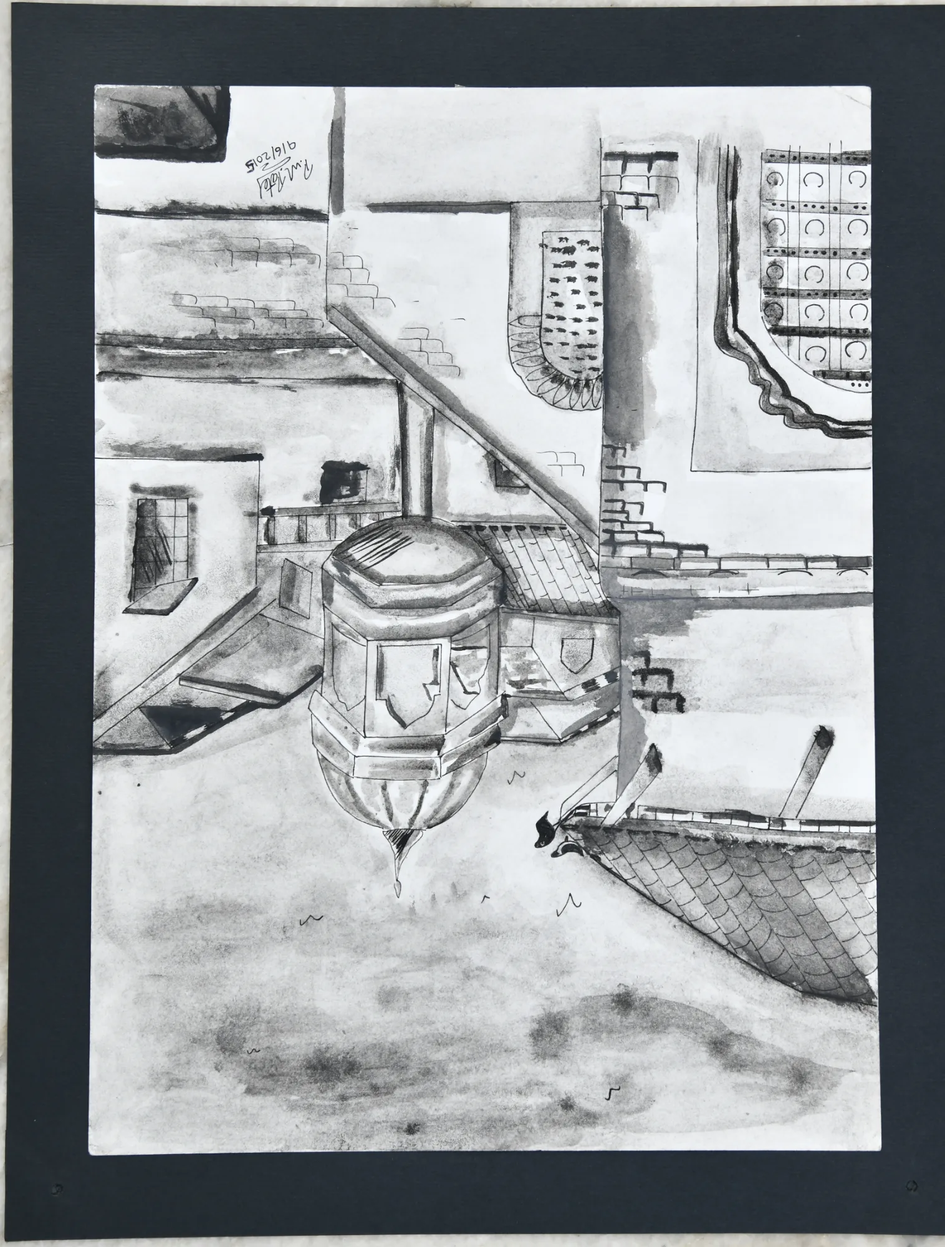
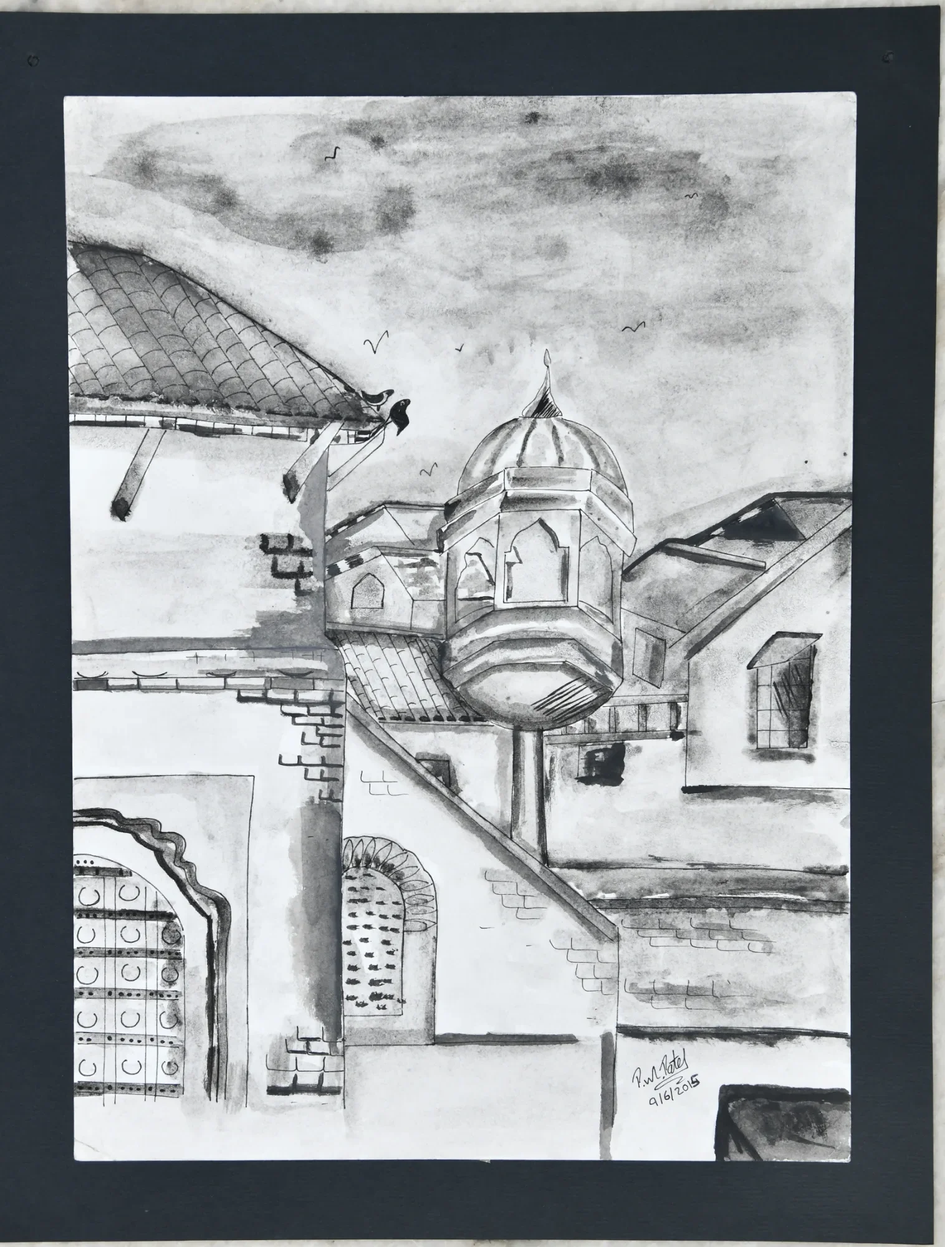
Reorder sections, add About photo, bigger name, clearer hero, straighten paintings
- Page and nav order: About, Services, Work, Shop, Contact
- Larger two-line name mark in the nav; clearer hero headline and shorter intro line
- Shorter hero hold so View Portfolio stays visible and work arrives sooner
- Photo of Prakruti in the About section
- Rotate two upside-down Heritage Streets images and a sideways blue study

diff --git a/index.html b/index.html
@@ -77,12 +77,15 @@
 
   <!-- NAV -->
   <header class="nav" data-nav>
-    <a href="#top" class="nav__brand" data-cursor="Home">Prakruti Patel</a>
+    <a href="#top" class="nav__brand" data-cursor="Home" aria-label="Prakruti Patel, home">
+      <span class="nav__name">Prakruti <em>Patel</em></span>
+      <span class="nav__role">Visual Artist · Vancouver</span>
+      <svg class="nav__stroke" viewBox="0 0 200 12" preserveAspectRatio="none" aria-hidden="true"><path d="M3 8 C40 3 90 10 130 6 C160 3 185 7 197 5"/></svg>
+    </a>
     <nav class="nav__links" aria-label="Primary">
-      <a href="#selected" class="u-link">Work</a>
-      <a href="#murals" class="u-link">Murals</a>
       <a href="#about" class="u-link">About</a>
       <a href="#services" class="u-link">Services</a>
+      <a href="#selected" class="u-link">Work</a>
       <a href="#shop" class="u-link nav__shop">Shop<sup>soon</sup></a>
       <a href="#enquire" class="u-link">Contact</a>
     </nav>
@@ -92,10 +95,9 @@
 
   <div class="menu" id="menu" aria-hidden="true">
     <nav class="menu__links" aria-label="Mobile">
-      <a href="#selected">Work</a>
-      <a href="#murals">Murals</a>
       <a href="#about">About</a>
       <a href="#services">Services</a>
+      <a href="#selected">Work</a>
       <a href="#shop">Shop<sup>soon</sup></a>
       <a href="#enquire">Contact</a>
     </nav>
@@ -116,17 +118,16 @@
         <div class="hero__vignette" aria-hidden="true"></div>
 
         <div class="hero__content wrap">
-          <p class="label hero__eyebrow">Prakruti Patel · Visual Artist · Muralist · Art Educator</p>
+          <p class="label hero__eyebrow">Visual Artist · Muralist · Art Educator</p>
           <h1 class="hero__title" id="hero-title">
-            <span class="line">Creating across</span>
-            <span class="line">canvas, walls and</span>
-            <span class="line"><em>evolving creative</em></span>
-            <span class="line"><em>spaces.</em>
+            <span class="line">Paintings, murals</span>
+            <span class="line">and custom art,</span>
+            <span class="line"><em>made by hand.</em>
               <svg class="scribble" viewBox="0 0 400 30" preserveAspectRatio="none" aria-hidden="true"><path class="draw" d="M4 20 C80 8 160 26 240 14 C300 6 350 18 396 10"/></svg>
             </span>
           </h1>
           <div class="hero__bottom">
-            <p class="hero__sub">A multidisciplinary visual artist working across drawing, painting, murals and commissioned artwork, with a practice rooted in traditional art foundations, experimentation and continuous creative growth.</p>
+            <p class="hero__sub">Vancouver-based artist working in drawing, painting and murals, for homes, businesses and private commissions.</p>
             <div class="hero__ctas">
               <a href="#selected" class="btn btn--primary magnetic"><span>View Portfolio</span></a>
               <a href="#about" class="u-link hero__link">About Me →</a>
@@ -141,12 +142,124 @@
       </div>
     </section>
 
-    <!-- 2. SELECTED WORK — strongest pieces, first thing after the hero -->
+    <!-- 2. ABOUT -->
+    <section class="story" id="about" aria-labelledby="story-title">
+      <div class="wrap story__grid">
+        <div class="story__intro">
+          <p class="label">01 — About</p>
+          <h2 class="h2 reveal-lines" id="story-title">Trained in fine art. Driven by curiosity. <em>Happiest with paint on my hands.</em></h2>
+          <figure class="story__photo">
+            <img src="assets/img/prakruti-sm.webp" srcset="assets/img/prakruti-sm.webp 640w, assets/img/prakruti.webp 1100w" sizes="(max-width: 1100px) 90vw, 32vw" width="640" height="922" loading="lazy" alt="Prakruti Patel holding her acrylic painting of a pink blossom tree">
+            <figcaption class="label">Prakruti with one of her acrylic paintings</figcaption>
+          </figure>
+        </div>
+        <div class="story__text">
+          <div class="story__copy">
+            <p>I'm Prakruti, a multidisciplinary visual artist working across drawing, painting, murals and commissioned artwork.</p>
+            <p>My foundation is a Bachelor's degree in Visual Arts, grounded in drawing, painting, composition and art history. Postgraduate studies at Seneca College, including a full course in life drawing, sharpened my eye for the figure, light and form.</p>
+            <p>For more than eight years I&rsquo;ve painted murals for caf&eacute;s, restaurants, offices, homes and IIM Ahmedabad, and hand-painted furniture, planters and bottles for private clients. Every new surface teaches me something, and I adapt quickly to new mediums and scales.</p>
+            <p>Alongside my own practice, I share what I've learned through teaching and mentoring. I'm open to murals, commissions, collaborations and art instructor roles.</p>
+          </div>
+          <ol class="timeline">
+            <li><strong>Bachelor of Visual Arts</strong><span>Drawing, painting, composition, art history</span></li>
+            <li><strong>Postgraduate studies — Seneca College</strong><span>Life drawing, anatomy, light &amp; form</span></li>
+            <li><strong>Murals &amp; commissions — 8+ years</strong><span>Cafés, restaurants, offices, homes &amp; IIM Ahmedabad</span></li>
+            <li><strong>Now — Vancouver, Canada</strong><span>Studio practice, murals, commissions &amp; teaching</span></li>
+          </ol>
+        </div>
+      </div>
+    </section>
+
+    <!-- MISSION -->
+    <section class="mission" aria-label="Artist statement">
+      <div class="wrap">
+        <p class="label">Artist statement</p>
+        <p class="mission__text" data-words>
+          I believe art should be <em>felt</em>, <em>lived with</em> and <em>shared</em>. My practice moves from a quick sketch to a <em>finished wall</em>, always rooted in drawing, colour and close observation, and always <em>learning</em> something new.
+        </p>
+        <svg class="mission__sig" viewBox="0 0 320 90" aria-label="Signed, Prakruti" role="img">
+          <path class="draw" d="M10 70 C30 20 40 10 44 40 C46 60 30 70 26 58 C24 40 60 30 70 44 C76 54 70 64 80 60 C92 54 96 40 104 46 C110 52 100 66 112 62 C124 58 128 44 136 50 C142 56 138 66 150 62 C170 54 170 20 180 30 C186 40 170 64 186 62 C200 60 204 44 214 50 C222 56 216 66 228 62 C248 54 258 40 272 48 C284 56 290 60 310 52"/>
+        </svg>
+      </div>
+    </section>
+
+    <!-- 3. ART & EDUCATION — concise, supports the portfolio -->
+    <section class="education" id="education" aria-labelledby="education-title">
+      <div class="wrap education__grid">
+        <div class="education__intro">
+          <p class="label">02 — Art &amp; Education</p>
+          <h2 class="h2 reveal-lines" id="education-title">Sharing the <em>practice.</em></h2>
+          <p>My teaching grows out of my own studio work: strong fundamentals in observation, drawing and colour, shared with patience and encouragement.</p>
+        </div>
+        <ul class="education__list">
+          <li>
+            <span class="label">Volunteer</span>
+            <h3>Assistant Art Instructor</h3>
+            <p>Children's drawing &amp; painting classes · Ages 5–12</p>
+          </li>
+          <li>
+            <span class="label">Seneca College</span>
+            <h3>Student Peer Mentor</h3>
+            <p>Supported a group of approximately 10 students</p>
+          </li>
+        </ul>
+      </div>
+    </section>
+
+    <!-- 4. SERVICES / COMMISSIONS -->
+    <section class="services" id="services" aria-labelledby="services-title">
+      <div class="wrap">
+        <div class="section-head">
+          <p class="label">03 — Work With Me</p>
+          <h2 class="h1 reveal-lines" id="services-title">Let's make something <em>together.</em></h2>
+        </div>
+        <ul class="offers">
+          <li class="offer" data-enquiry="Mural">
+            <button class="offer__row" aria-expanded="false">
+              <span class="label offer__num">01</span>
+              <span class="offer__title">Murals</span>
+              <span class="offer__for">Homes, cafés, offices, schools</span>
+              <span class="offer__arrow" aria-hidden="true">→</span>
+            </button>
+            <div class="offer__detail"><p>Large-scale walls designed around your space and story. On-site across Metro Vancouver.</p><a href="#enquire" class="u-link" data-enquire>Enquire →</a></div>
+          </li>
+          <li class="offer" data-enquiry="Commission">
+            <button class="offer__row" aria-expanded="false">
+              <span class="label offer__num">02</span>
+              <span class="offer__title">Commissions</span>
+              <span class="offer__for">Individuals &amp; collectors</span>
+              <span class="offer__arrow" aria-hidden="true">→</span>
+            </button>
+            <div class="offer__detail"><p>Original paintings, drawings and portraits made for you.</p><a href="#enquire" class="u-link" data-enquire>Enquire →</a></div>
+          </li>
+          <li class="offer" data-enquiry="Custom piece">
+            <button class="offer__row" aria-expanded="false">
+              <span class="label offer__num">03</span>
+              <span class="offer__title">Custom Painted Pieces</span>
+              <span class="offer__for">Furniture, planters, décor</span>
+              <span class="offer__arrow" aria-hidden="true">→</span>
+            </button>
+            <div class="offer__detail"><p>Hand-painted patterns and artwork on furniture, planters, bottles and other surfaces.</p><a href="#enquire" class="u-link" data-enquire>Enquire →</a></div>
+          </li>
+          <li class="offer" data-enquiry="Teaching">
+            <button class="offer__row" aria-expanded="false">
+              <span class="label offer__num">04</span>
+              <span class="offer__title">Teaching &amp; Workshops</span>
+              <span class="offer__for">Schools, studios, programs</span>
+              <span class="offer__arrow" aria-hidden="true">→</span>
+            </button>
+            <div class="offer__detail"><p>Art instruction and creative workshops in drawing and painting.</p><a href="#enquire" class="u-link" data-enquire>Enquire →</a></div>
+          </li>
+        </ul>
+      </div>
+    </section>
+
+    <!-- 5. SELECTED WORK — strongest pieces -->
     <section class="selected" id="selected" aria-labelledby="selected-title">
       <div class="wrap">
         <div class="selected__head">
           <div>
-            <p class="label">01 — Selected Work</p>
+            <p class="label">04 — Selected Work</p>
             <h2 class="h1 reveal-lines" id="selected-title">Selected <em>work.</em></h2>
           </div>
           <p class="selected__intro">A curated edit across walls, canvas and paper: murals, oil, acrylic, watercolour, ink and life drawing.</p>
@@ -205,12 +318,12 @@
       </div>
     </section>
 
-    <!-- 3. PORTFOLIO — full gallery with categories -->
+    <!-- 6. PORTFOLIO — full gallery with categories -->
     <section class="work" id="work" aria-labelledby="work-title">
       <div class="work__pin">
         <div class="wrap work__head">
           <div>
-            <p class="label">02 — Portfolio</p>
+            <p class="label">05 — Portfolio</p>
             <h2 class="h1" id="work-title">The <em>portfolio</em><sup class="work__count" data-work-count>(28)</sup></h2>
           </div>
           <div class="filters" role="group" aria-label="Filter work" data-filters>
@@ -226,12 +339,12 @@
       </div>
     </section>
 
-    <!-- 4. MURALS & CLIENT PROJECTS -->
+    <!-- 7. MURALS & CLIENT PROJECTS -->
     <section class="murals" id="murals" aria-labelledby="murals-title">
       <div class="wrap">
         <div class="murals__head">
           <div>
-            <p class="label">03 — Murals &amp; Client Projects</p>
+            <p class="label">06 — Murals &amp; Client Projects</p>
             <h2 class="h1 reveal-lines" id="murals-title">Walls, spaces <em>&amp; commissions.</em></h2>
           </div>
           <p class="murals__intro">More than eight years of large-scale murals and commissioned pieces for cafés, restaurants, offices, homes and IIM Ahmedabad, each one planned, drawn out and painted by hand.</p>
@@ -272,115 +385,6 @@
         </div>
       </div>
     </section>
-
-    <!-- MISSION -->
-    <section class="mission" aria-label="Artist statement">
-      <div class="wrap">
-        <p class="label">Artist statement</p>
-        <p class="mission__text" data-words>
-          I believe art should be <em>felt</em>, <em>lived with</em> and <em>shared</em>. My practice moves from a quick sketch to a <em>finished wall</em>, always rooted in drawing, colour and close observation, and always <em>learning</em> something new.
-        </p>
-        <svg class="mission__sig" viewBox="0 0 320 90" aria-label="Signed, Prakruti" role="img">
-          <path class="draw" d="M10 70 C30 20 40 10 44 40 C46 60 30 70 26 58 C24 40 60 30 70 44 C76 54 70 64 80 60 C92 54 96 40 104 46 C110 52 100 66 112 62 C124 58 128 44 136 50 C142 56 138 66 150 62 C170 54 170 20 180 30 C186 40 170 64 186 62 C200 60 204 44 214 50 C222 56 216 66 228 62 C248 54 258 40 272 48 C284 56 290 60 310 52"/>
-        </svg>
-      </div>
-    </section>
-
-    <!-- 5. ABOUT -->
-    <section class="story" id="about" aria-labelledby="story-title">
-      <div class="wrap story__grid">
-        <div class="story__intro">
-          <p class="label">04 — About</p>
-          <h2 class="h2 reveal-lines" id="story-title">Trained in fine art. Driven by curiosity. <em>Happiest with paint on my hands.</em></h2>
-        </div>
-        <div class="story__text">
-          <div class="story__copy">
-            <p>I'm Prakruti, a multidisciplinary visual artist working across drawing, painting, murals and commissioned artwork.</p>
-            <p>My foundation is a Bachelor's degree in Visual Arts, grounded in drawing, painting, composition and art history. Postgraduate studies at Seneca College, including a full course in life drawing, sharpened my eye for the figure, light and form.</p>
-            <p>For more than eight years I&rsquo;ve painted murals for caf&eacute;s, restaurants, offices, homes and IIM Ahmedabad, and hand-painted furniture, planters and bottles for private clients. Every new surface teaches me something, and I adapt quickly to new mediums and scales.</p>
-            <p>Alongside my own practice, I share what I've learned through teaching and mentoring. I'm open to murals, commissions, collaborations and art instructor roles.</p>
-          </div>
-          <ol class="timeline">
-            <li><strong>Bachelor of Visual Arts</strong><span>Drawing, painting, composition, art history</span></li>
-            <li><strong>Postgraduate studies — Seneca College</strong><span>Life drawing, anatomy, light &amp; form</span></li>
-            <li><strong>Murals &amp; commissions — 8+ years</strong><span>Cafés, restaurants, offices, homes &amp; IIM Ahmedabad</span></li>
-            <li><strong>Now — Vancouver, Canada</strong><span>Studio practice, murals, commissions &amp; teaching</span></li>
-          </ol>
-        </div>
-      </div>
-    </section>
-
-    <!-- 6. ART & EDUCATION — concise, supports the portfolio -->
-    <section class="education" id="education" aria-labelledby="education-title">
-      <div class="wrap education__grid">
-        <div class="education__intro">
-          <p class="label">05 — Art &amp; Education</p>
-          <h2 class="h2 reveal-lines" id="education-title">Sharing the <em>practice.</em></h2>
-          <p>My teaching grows out of my own studio work: strong fundamentals in observation, drawing and colour, shared with patience and encouragement.</p>
-        </div>
-        <ul class="education__list">
-          <li>
-            <span class="label">Volunteer</span>
-            <h3>Assistant Art Instructor</h3>
-            <p>Children's drawing &amp; painting classes · Ages 5–12</p>
-          </li>
-          <li>
-            <span class="label">Seneca College</span>
-            <h3>Student Peer Mentor</h3>
-            <p>Supported a group of approximately 10 students</p>
-          </li>
-        </ul>
-      </div>
-    </section>
-
-    <!-- 7. SERVICES / COMMISSIONS -->
-    <section class="services" id="services" aria-labelledby="services-title">
-      <div class="wrap">
-        <div class="section-head">
-          <p class="label">06 — Work With Me</p>
-          <h2 class="h1 reveal-lines" id="services-title">Let's make something <em>together.</em></h2>
-        </div>
-        <ul class="offers">
-          <li class="offer" data-enquiry="Mural">
-            <button class="offer__row" aria-expanded="false">
-              <span class="label offer__num">01</span>
-              <span class="offer__title">Murals</span>
-              <span class="offer__for">Homes, cafés, offices, schools</span>
-              <span class="offer__arrow" aria-hidden="true">→</span>
-            </button>
-            <div class="offer__detail"><p>Large-scale walls designed around your space and story. On-site across Metro Vancouver.</p><a href="#enquire" class="u-link" data-enquire>Enquire →</a></div>
-          </li>
-          <li class="offer" data-enquiry="Commission">
-            <button class="offer__row" aria-expanded="false">
-              <span class="label offer__num">02</span>
-              <span class="offer__title">Commissions</span>
-              <span class="offer__for">Individuals &amp; collectors</span>
-              <span class="offer__arrow" aria-hidden="true">→</span>
-            </button>
-            <div class="offer__detail"><p>Original paintings, drawings and portraits made for you.</p><a href="#enquire" class="u-link" data-enquire>Enquire →</a></div>
-          </li>
-          <li class="offer" data-enquiry="Custom piece">
-            <button class="offer__row" aria-expanded="false">
-              <span class="label offer__num">03</span>
-              <span class="offer__title">Custom Painted Pieces</span>
-              <span class="offer__for">Furniture, planters, décor</span>
-              <span class="offer__arrow" aria-hidden="true">→</span>
-            </button>
-            <div class="offer__detail"><p>Hand-painted patterns and artwork on furniture, planters, bottles and other surfaces.</p><a href="#enquire" class="u-link" data-enquire>Enquire →</a></div>
-          </li>
-          <li class="offer" data-enquiry="Teaching">
-            <button class="offer__row" aria-expanded="false">
-              <span class="label offer__num">04</span>
-              <span class="offer__title">Teaching &amp; Workshops</span>
-              <span class="offer__for">Schools, studios, programs</span>
-              <span class="offer__arrow" aria-hidden="true">→</span>
-            </button>
-            <div class="offer__detail"><p>Art instruction and creative workshops in drawing and painting.</p><a href="#enquire" class="u-link" data-enquire>Enquire →</a></div>
-          </li>
-        </ul>
-      </div>
-    </section>
-
 
     <!-- 8. CANVAS SHOP — coming soon -->
     <section class="shop" id="shop" aria-labelledby="shop-title">

diff --git a/script.js b/script.js
@@ -25,7 +25,7 @@
     {title:"Women of Rajasthan",category:"Painting",medium:"Painting · BA Visual Arts",year:"",desc:"A richly patterned figurative painting of two women in traditional Rajasthani dress.",images:[{src:"assets/work/rajasthan-1.webp",sm:"assets/work/rajasthan-1-sm.webp",w:2000,h:1625}]},
     {title:"Heritage Streets",category:"Painting",medium:"Watercolour & ink",year:"",desc:"Watercolour and ink studies of temples, old streets and harbours: architecture, texture and everyday life.",images:[{src:"assets/work/heritage-1.webp",sm:"assets/work/heritage-1-sm.webp",w:612,h:844},{src:"assets/work/heritage-2.webp",sm:"assets/work/heritage-2-sm.webp",w:2000,h:1350},{src:"assets/work/heritage-3.webp",sm:"assets/work/heritage-3-sm.webp",w:1524,h:2000},{src:"assets/work/heritage-4.webp",sm:"assets/work/heritage-4-sm.webp",w:687,h:1023},{src:"assets/work/heritage-5.webp",sm:"assets/work/heritage-5-sm.webp",w:1516,h:2000},{src:"assets/work/heritage-6.webp",sm:"assets/work/heritage-6-sm.webp",w:2000,h:1417}]},
     {title:"Still Life with Drapery",category:"Painting",medium:"Painting · BA Visual Arts",year:"",desc:"Still life studies focused on drapery, reflective surfaces and bold colour.",images:[{src:"assets/work/still-life-1.webp",sm:"assets/work/still-life-1-sm.webp",w:1357,h:2000},{src:"assets/work/still-life-2.webp",sm:"assets/work/still-life-2-sm.webp",w:1459,h:2000}]},
-    {title:"Studies in Blue",category:"Painting",medium:"Painting · BA Visual Arts",year:"",desc:"Monochrome studies in blue, exploring value and form.",images:[{src:"assets/work/blue-studies-1.webp",sm:"assets/work/blue-studies-1-sm.webp",w:1467,h:1570},{src:"assets/work/blue-studies-2.webp",sm:"assets/work/blue-studies-2-sm.webp",w:1289,h:2000},{src:"assets/work/blue-studies-3.webp",sm:"assets/work/blue-studies-3-sm.webp",w:2000,h:1333}]},
+    {title:"Studies in Blue",category:"Painting",medium:"Painting · BA Visual Arts",year:"",desc:"Monochrome studies in blue, exploring value and form.",images:[{src:"assets/work/blue-studies-1.webp",sm:"assets/work/blue-studies-1-sm.webp",w:1467,h:1570},{src:"assets/work/blue-studies-2.webp",sm:"assets/work/blue-studies-2-sm.webp",w:1289,h:2000},{src:"assets/work/blue-studies-3.webp",sm:"assets/work/blue-studies-3-sm.webp",w:1333,h:2000}]},
     {title:"Small Canvases",category:"Painting",medium:"Mixed media · BA Visual Arts",year:"",desc:"A set of small mixed-media canvases: texture, collage and bold symbolic imagery.",images:[{src:"assets/work/mixed-media-1.webp",sm:"assets/work/mixed-media-1-sm.webp",w:430,h:543},{src:"assets/work/mixed-media-2.webp",sm:"assets/work/mixed-media-2-sm.webp",w:730,h:717},{src:"assets/work/mixed-media-3.webp",sm:"assets/work/mixed-media-3-sm.webp",w:874,h:589},{src:"assets/work/mixed-media-4.webp",sm:"assets/work/mixed-media-4-sm.webp",w:470,h:589},{src:"assets/work/mixed-media-5.webp",sm:"assets/work/mixed-media-5-sm.webp",w:480,h:563},{src:"assets/work/mixed-media-6.webp",sm:"assets/work/mixed-media-6-sm.webp",w:538,h:435},{src:"assets/work/mixed-media-7.webp",sm:"assets/work/mixed-media-7-sm.webp",w:470,h:538}]},
     {title:"Sky Canvases",category:"Painting",medium:"Painting on canvas",year:"",desc:"Soft sunset and night-sky canvases.",images:[{src:"assets/work/sky-canvases-1.webp",sm:"assets/work/sky-canvases-1-sm.webp",w:490,h:640},{src:"assets/work/sky-canvases-2.webp",sm:"assets/work/sky-canvases-2-sm.webp",w:413,h:525}]},
     {title:"Pointillism & Colour Fields",category:"Painting",medium:"Painting · BA Visual Arts",year:"",desc:"Studies in dotted texture and overlapping transparent colour.",images:[{src:"assets/work/pointillism-1.webp",sm:"assets/work/pointillism-1-sm.webp",w:1526,h:2000},{src:"assets/work/pointillism-2.webp",sm:"assets/work/pointillism-2-sm.webp",w:2000,h:1368},{src:"assets/work/pointillism-3.webp",sm:"assets/work/pointillism-3-sm.webp",w:1254,h:2000}]},
@@ -397,11 +397,12 @@
     };
 
     const tl = gsap.timeline({ defaults: { ease: 'none' } })
-      .to('.hero__content', { yPercent: -10, opacity: 0, ease: 'power1.in', duration: 0.5 }, 0)
+      .to('.hero__content', { yPercent: -10, opacity: 0, ease: 'power1.in', duration: 0.4 }, 0.35)
       .fromTo('.hero__meta', { opacity: 1 }, { opacity: 0, duration: 0.2, immediateRender: false }, 0)
       .to('.hero__vignette', { boxShadow: 'inset 0 0 18vmax 4vmax #F6F1E9', duration: 0.4 }, 0.6);
     ScrollTrigger.create({
-      trigger: hero, start: 'top top', end: () => '+=' + innerHeight * (isMobile() ? 1.4 : 2.2),
+      trigger: hero, start: 'top top', // short hold: the title and View Portfolio stay readable, then the work follows quickly
+      end: () => '+=' + innerHeight * (isMobile() ? 0.7 : 1),
       pin: true, scrub: 1, animation: tl,
       onUpdate: self => { state.scroll = self.progress; apply(); }
     });

diff --git a/style.css b/style.css
@@ -182,7 +182,17 @@ em { font-style: italic; }
 .nav.is-scrolled::before { opacity: 1; }
 .on-dark .nav { color: var(--paper); }
 .on-dark .nav::before { background: linear-gradient(to bottom, rgba(20, 30, 36, .85), rgba(20, 30, 36, 0)); }
-.nav__brand { font: 400 26px/1 var(--serif); letter-spacing: -.01em; margin-right: auto; }
+.nav__brand { position: relative; display: flex; flex-direction: column; gap: 5px; margin-right: auto; padding-bottom: 6px; }
+.nav__name { font: 400 clamp(30px, 2.5vw, 38px)/.95 var(--serif); letter-spacing: -.02em; white-space: nowrap; }
+.nav__name em { color: var(--terracotta); }
+.on-dark .nav__name em { color: var(--ochre); }
+.nav__role { font: 500 10px/1 var(--mono); letter-spacing: .2em; text-transform: uppercase; opacity: .7; white-space: nowrap; }
+.nav__stroke {
+  position: absolute; left: -2px; right: 30%; bottom: 17px; width: auto; height: 10px; z-index: -1;
+  fill: none; stroke: var(--terracotta); stroke-width: 5; stroke-linecap: round; opacity: .22;
+  transform-origin: left; transform: scaleX(0); transition: transform .9s var(--ease);
+}
+.nav__brand:hover .nav__stroke, .nav__brand:focus-visible .nav__stroke { transform: scaleX(1); }
 .nav__links { display: flex; gap: 28px; font-size: 14px; font-weight: 500; }
 .nav__menu { display: none; font: 500 12px/1 var(--mono); letter-spacing: .12em; text-transform: uppercase; padding: 12px 0; }
 
@@ -243,7 +253,7 @@ em { font-style: italic; }
 .scribble { position: absolute; left: 0; bottom: -.08em; width: 100%; height: .16em; color: var(--terracotta); overflow: visible; }
 .scribble .draw { stroke-width: 3; vector-effect: non-scaling-stroke; }
 .hero__bottom { display: flex; align-items: flex-end; justify-content: space-between; gap: 40px; }
-.hero__sub { max-width: 34ch; font-size: var(--fs-lead); line-height: 1.45; color: var(--graphite); }
+.hero__sub { max-width: 40ch; font-size: clamp(15px, 1.1vw, 18px); line-height: 1.6; color: var(--graphite); }
 .hero__ctas { display: flex; align-items: center; gap: 28px; }
 .hero__link { font-weight: 600; }
 .hero__meta {
@@ -328,7 +338,10 @@ em { font-style: italic; }
 /* ---------- STORY ---------- */
 .story { padding-block: var(--section); border-top: 1px solid var(--hair); }
 .story__grid { display: grid; grid-template-columns: 5fr 6fr; gap: 7vw; align-items: start; }
-.story__intro { position: sticky; top: calc(var(--nav-h) + 6vh); }
+.story__intro { position: relative; }
+.story__photo { margin: 48px 0 0; max-width: 440px; }
+.story__photo img { width: 100%; height: auto; aspect-ratio: 4 / 5; object-fit: cover; object-position: 50% 30%; border-radius: 4px; box-shadow: 0 30px 60px -30px rgba(26, 37, 44, .35); }
+.story__photo figcaption { margin-top: 14px; opacity: .75; }
 .story__intro .label { margin-bottom: 24px; }
 .story__intro .h2 { font-size: clamp(40px, 5.2vw, 92px); }
 .story__copy { display: flex; flex-direction: column; gap: 1.1em; max-width: 60ch; color: var(--graphite); font-size: clamp(16px, 1.15vw, 19px); }
@@ -995,6 +1008,8 @@ em { font-style: italic; }
 
 @media (max-width: 767px) {
   :root { --nav-h: 64px; }
+  .nav__name { font-size: 28px; }
+  .nav__role { font-size: 9px; letter-spacing: .16em; }
   .nav { gap: 16px; }
   .nav__cta { display: none; }
   .nav__menu { display: block; }
